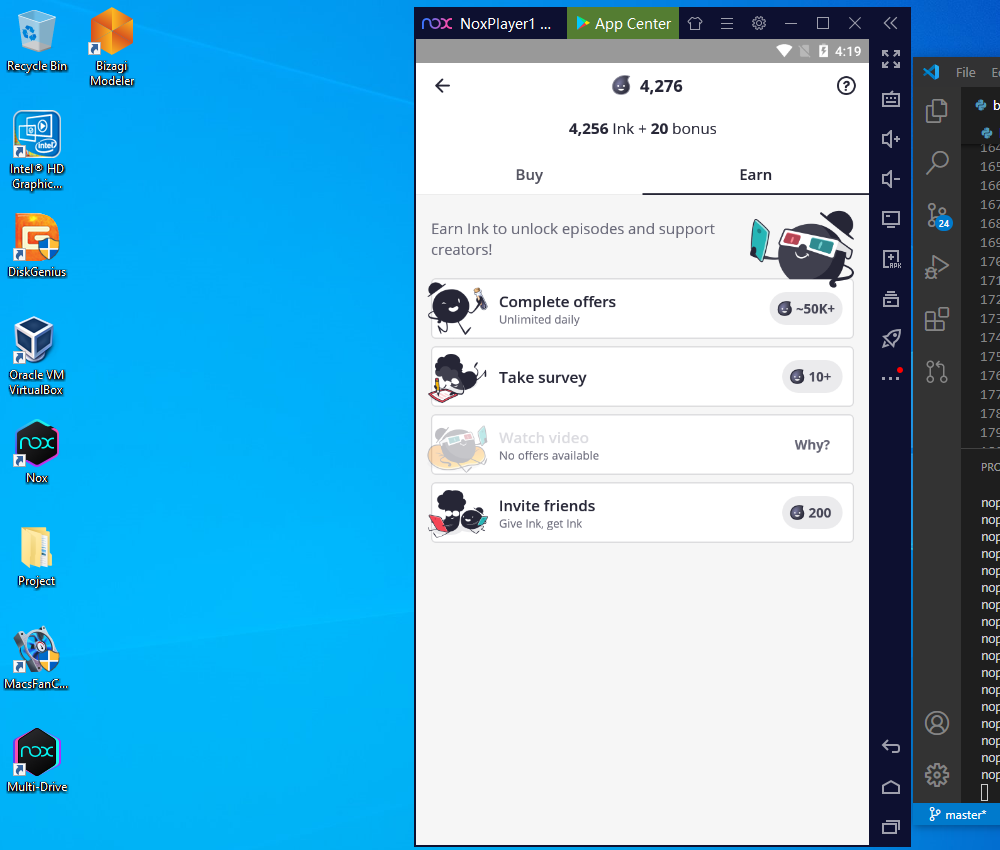
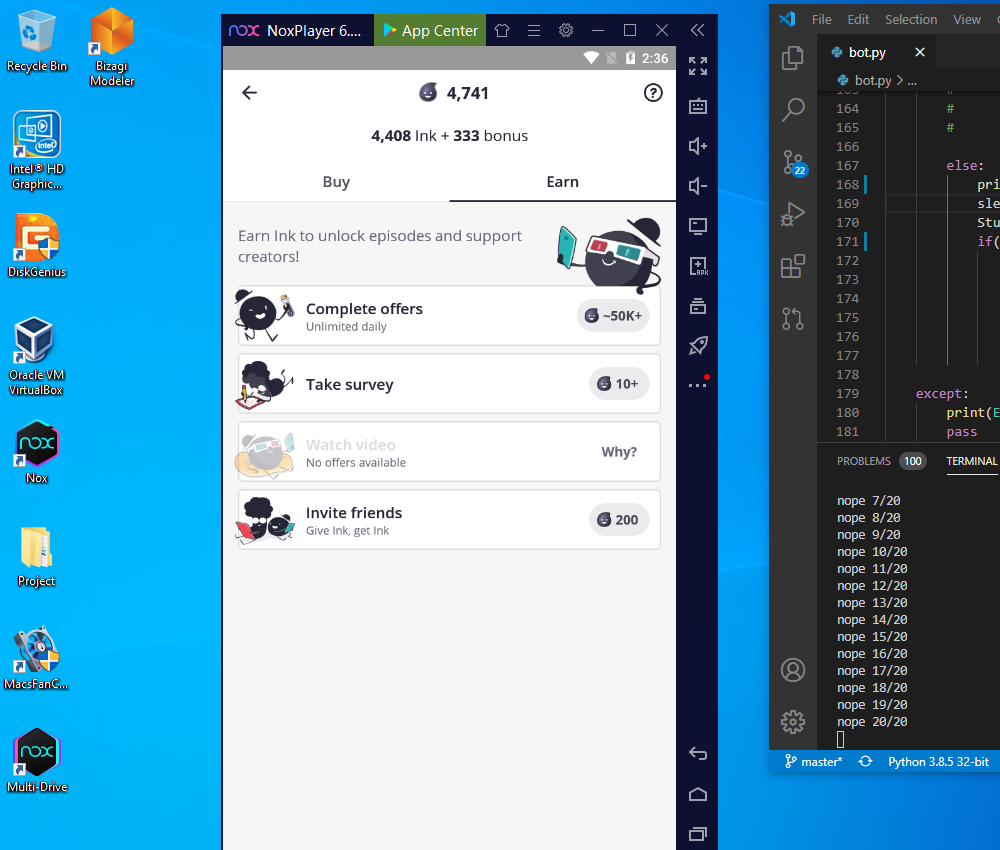
last version

diff --git a/playground.py b/playground.py
@@ -7,34 +7,15 @@ import win32api, win32con
 import datetime
 import os
 
-def locateMainScreen():
-    location = pyautogui.locateOnScreen('vdoPromo.png', region=(0,30,450,815))
-    return location
-
-def locateExitAdScreen():
-    location = None
-    if pyautogui.locateOnScreen('ad1.png', region=(0,30,450,80)) != None:
-        location = pyautogui.locateOnScreen('ad1.png', region=(0,30,450,80))
-        print(f'found it at {location}')
-    else:
-        print('I cannot find')
-    return location
-
-def locateFreeInk():
-    location = pyautogui.locateOnScreen('freeinkbtn.png', confidence=0.8, region=(116,32,755,810))
-    return location
-
-def locateExitAdScreen2():
-    path = 'C:\\Users\\SEVEN\\Desktop\\Tutorial\\adCloseBtn'
+def locate_exit_ad_screen2():
+    print('execute exit ad screen')
+    path = 'C:\\Users\\SEVEN\\Desktop\\Project\\InkBot\\adCloseBtn\\'
+    print(path)
     files = os.listdir(path)
-    location = None
     for f in files:
-        location = pyautogui.locateOnScreen('adCloseBtn\\'+str(f), confidence=0.8, region=(416,32,455,210))
-        if location != None:
-            return location
-            quit
+        print(f)
+        location = pyautogui.locateOnScreen(path+str(f), confidence=0.8, region=(233,253,152,47))
     return location
 
-for i in (1,2,3,4,5,6,7,8,9):
-    print(i)
-    sleep(2)
+
+loc = locate_exit_ad_screen2()

diff --git a/bot.py b/bot.py
@@ -6,7 +6,6 @@ import random
 import win32api, win32con
 import datetime
 import os
-import traceback
 
 
 def click(x,y):
@@ -36,11 +35,11 @@ def locate_spill_ink():
 
 def locate_exit_ad_screen2():
     #print('execute exit ad screen')
-    path = 'C:\\Users\\SEVEN\\Desktop\\Project\\InkBot\\adCloseBtn'
+    path = 'C:\\Users\\SEVEN\\Desktop\\Project\\InkBot\\adCloseBtn\\'
     files = os.listdir(path)
     for f in files:
-        location = pyautogui.locateOnScreen('adCloseBtn\\'+str(f), confidence=0.8, region=(screen_left,screen_top,screen_width,screen_height))
-        return location
+        location = pyautogui.locateOnScreen(path+str(f), confidence=0.8, region=(screen_left,screen_top,screen_width,screen_height))
+    return location
 
 def locate_free_ink():
     #print('execute locate free ink')
@@ -166,10 +165,10 @@ while (keyboard.is_pressed('q') == False):
         #        StuckCounter = 0
 
         else:
-            print(f'nope {StuckCounter}/30')
+            print(f'nope {StuckCounter}/20')
             sleep(1)
             StuckCounter+=1
-            if(StuckCounter>25):
+            if(StuckCounter>20):
                 stuck_img_counter += 1
                 if stuck_img_counter < 20:
                     capture_stuck_screen(stuck_img_counter)
